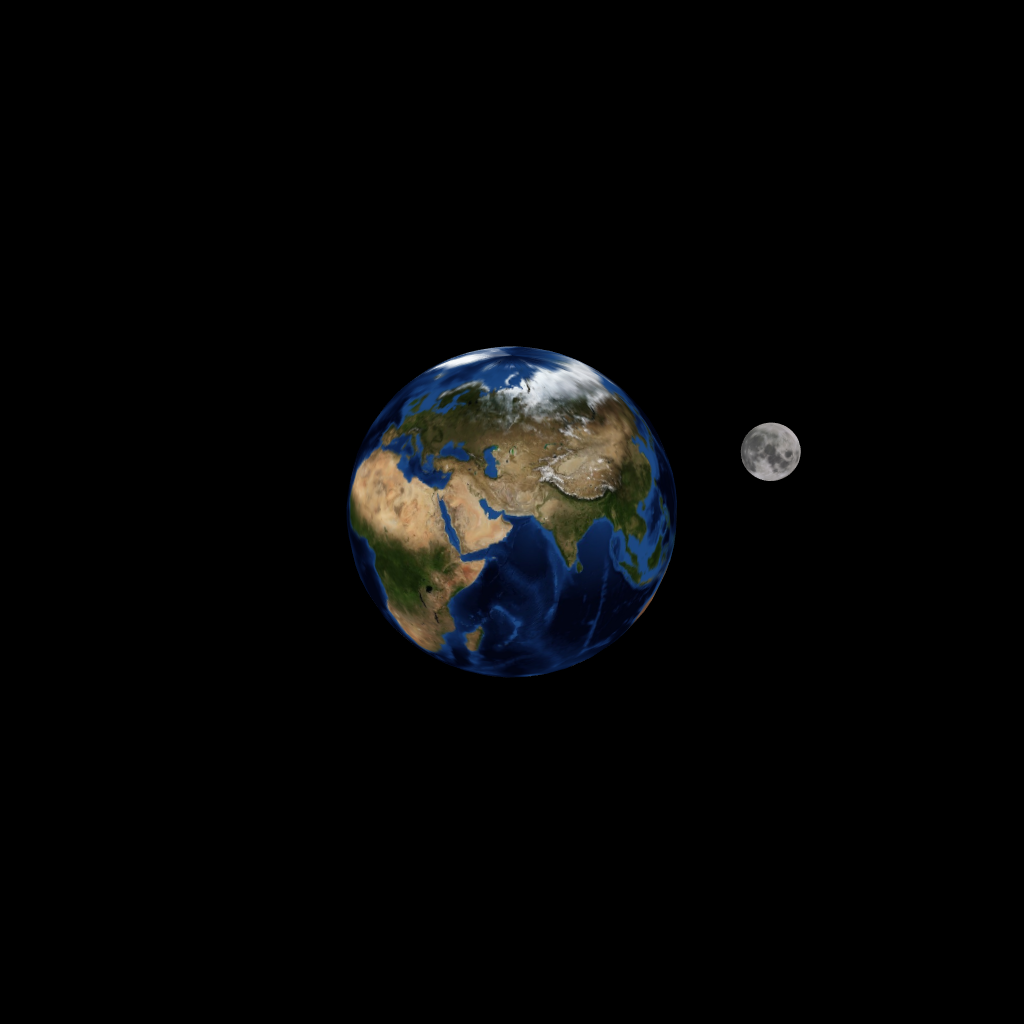
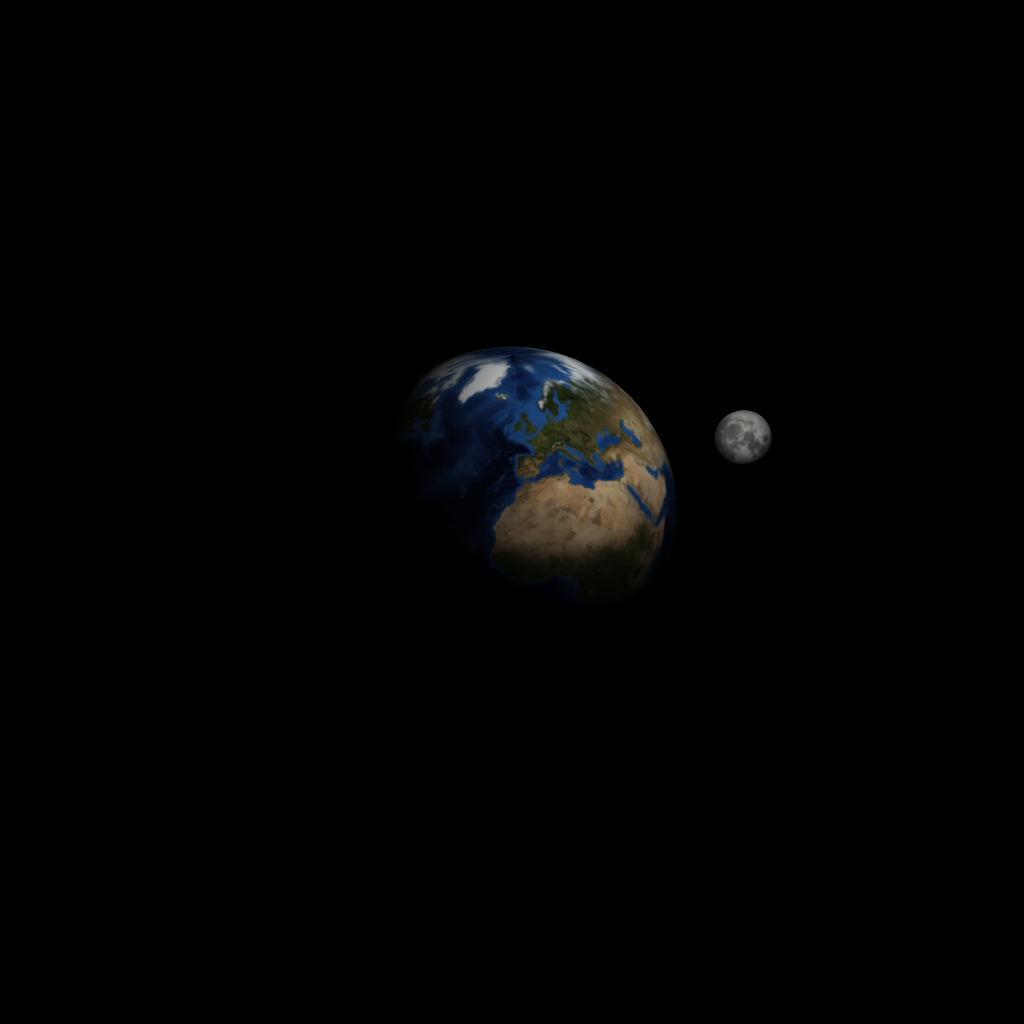
point light with standard material

Changed region(s): [[0.3125, 0.3125, 0.6562, 0.6875], [0.6875, 0.375, 0.7812, 0.4688]]

diff --git a/sketch.js b/sketch.js
@@ -45,10 +45,14 @@ const sketch = ({ context }) => {
   const moonGroup = new THREE.Group()
 
   // Setup material
-  const earthMaterial = new THREE.MeshBasicMaterial({
+  const earthMaterial = new THREE.MeshStandardMaterial({
+    roughness:1,
+    metalness:0,
     map:earthTexture
   });
-  const moonMaterial = new THREE.MeshBasicMaterial({
+  const moonMaterial = new THREE.MeshStandardMaterial({
+    roughness:1,
+    metalness:0,
     map:moonTexture
   });
 
@@ -62,6 +66,12 @@ const sketch = ({ context }) => {
   moonGroup.add(moonMesh)
   scene.add(earthMesh);
   scene.add(moonGroup);
+
+  // Light
+  const light = new THREE.PointLight()
+  light.position.set(-1,2,-1)
+
+  scene.add(light)
 
   // draw each frame
   return {
